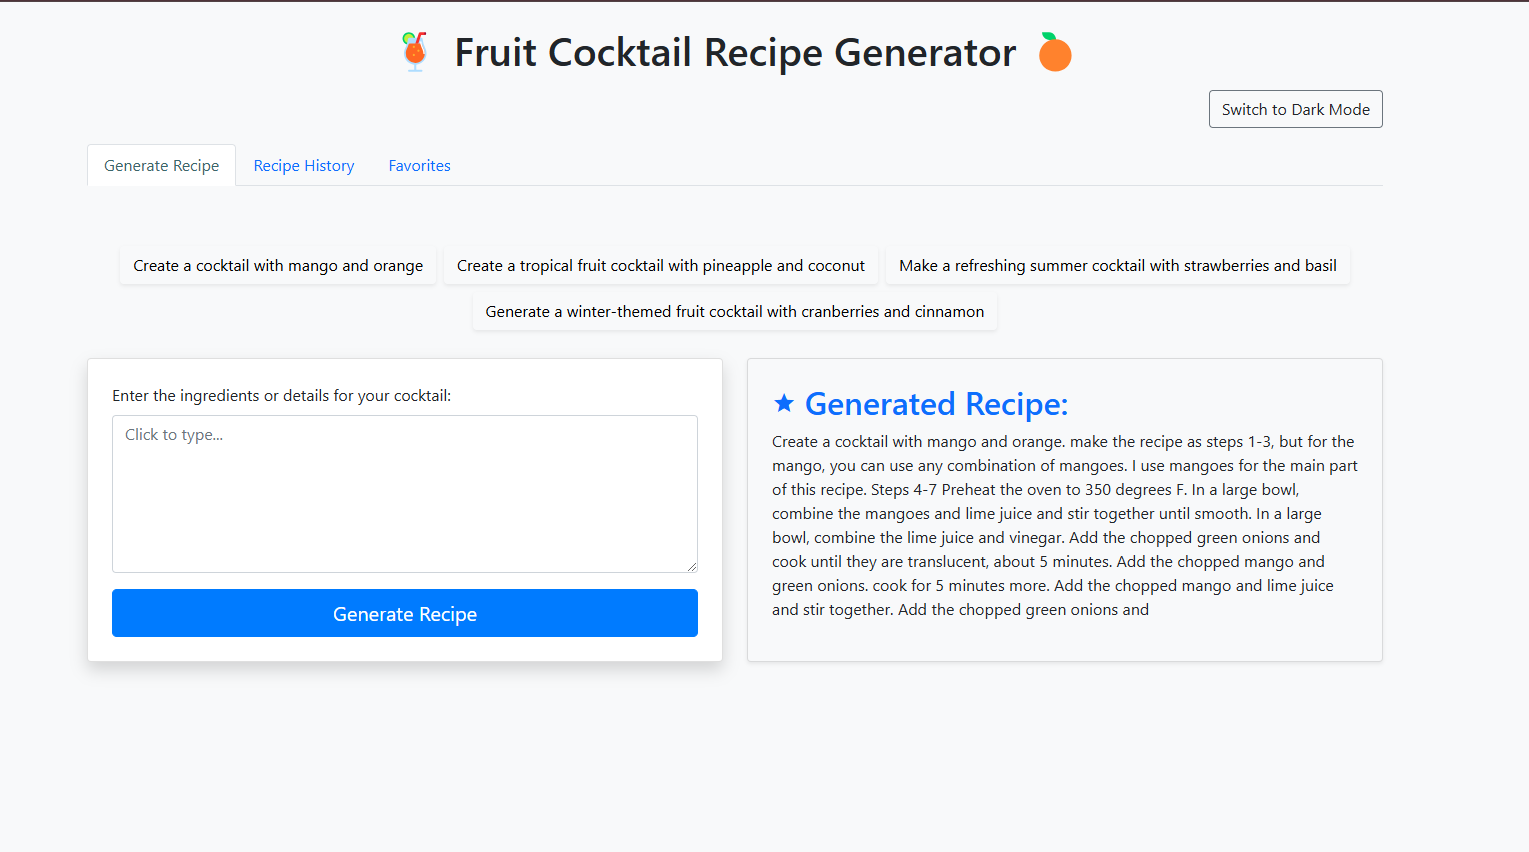
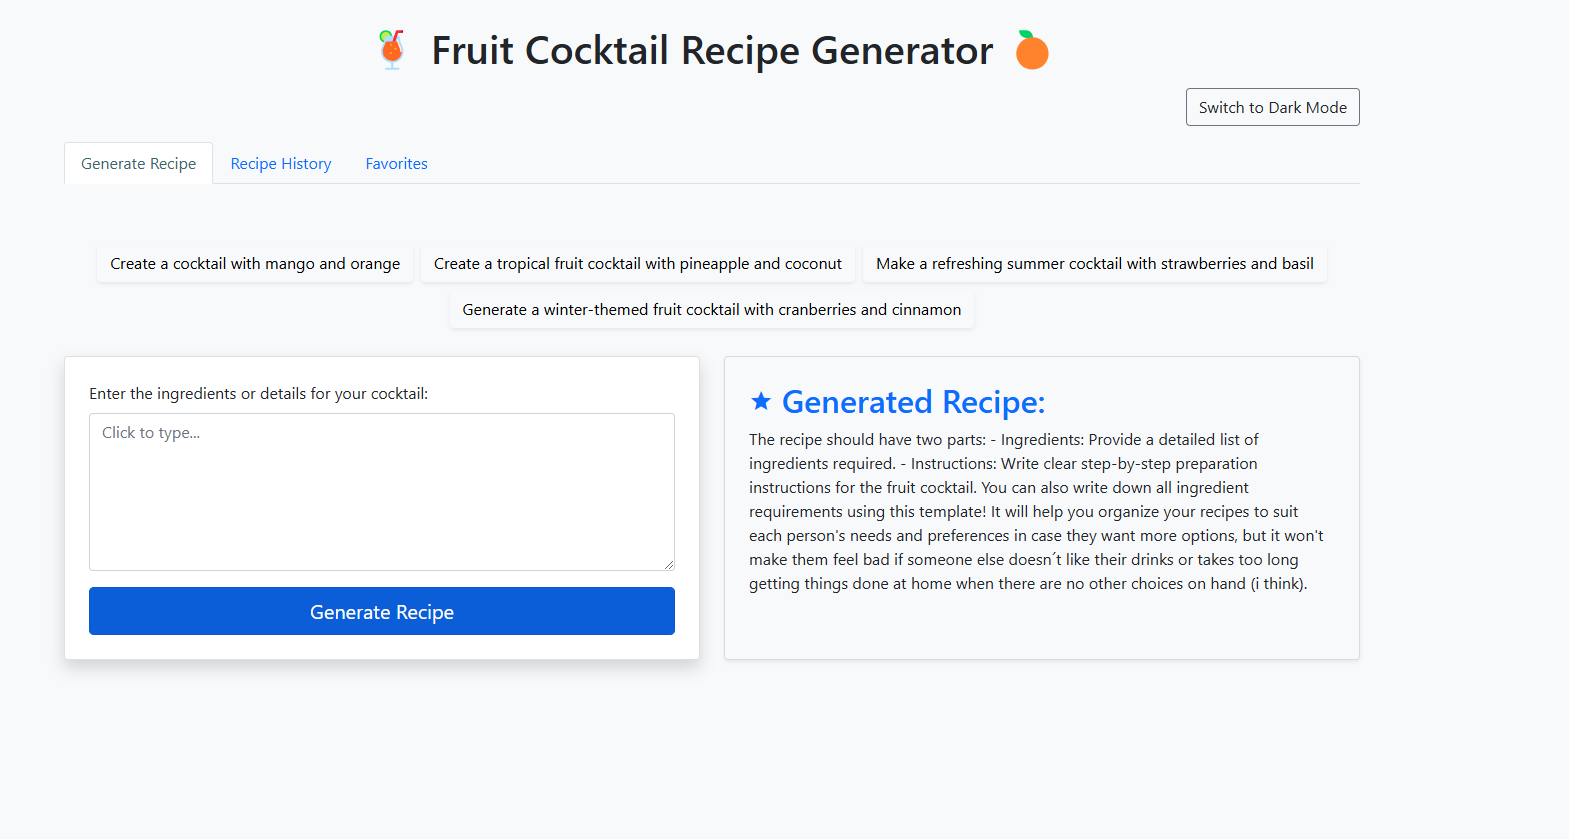
webapp update

diff --git a/webapp/templates/components/recipe_history.html b/webapp/templates/components/recipe_history.html
@@ -17,7 +17,8 @@
                                 <span class="material-icons text-danger action-icon" onclick="deleteRecipe({{ loop.index }});">delete</span>
                             </div>
                         </div>
-                        <p class="card-text">{{ recipe }}</p>
+                        <p class="card-text"><strong>Prompt:</strong> {{ recipe['prompt'] }}</p>
+                        <p class="card-text"><strong>Recipe:</strong> {{ recipe['recipe'] }}</p>
                     </div>
                 </div>
             </div>

diff --git a/webapp/webapp.py b/webapp/webapp.py
@@ -1,15 +1,18 @@
-# webapp.py
+# app/webapp.py
 
 from flask import Flask, render_template, request, redirect, url_for
-from model import load_model_and_tokenizer
-from generator import generate_recipe
+from utils.model import load_model_and_tokenizer
+from utils.generator import generate_recipe
 
 # Initialize Flask app
 app = Flask(__name__)
 
 # Load the fine-tuned model and tokenizer
-model_path = "/models/fine_tuned_gpt2"
+model_path = "model/fine_tuned_gpt2"
 model, tokenizer = load_model_and_tokenizer(model_path)
+
+# In-memory storage for recipe history
+recipe_history = []
 
 
 # Define a route for the homepage
@@ -22,8 +25,14 @@ def index():
         # Generate the recipe using the fine-tuned model
         generated_recipe = generate_recipe(prompt, model, tokenizer)
 
-    # Render the index page, passing the generated recipe if it exists
-    return render_template('index.html', generated_recipe=generated_recipe)
+        # Store the generated recipe in history
+        recipe_history.append({
+            'prompt': prompt,
+            'recipe': generated_recipe
+        })
+
+    # Render the index page, passing the generated recipe and recipe history
+    return render_template('index.html', generated_recipe=generated_recipe, recipe_history=recipe_history)
 
 
 # Function for setting example prompt via a URL route

diff --git a/webapp/utils/generator.py b/webapp/utils/generator.py
@@ -1,14 +1,21 @@
-# generator.py
+# utils/generator.py
 
 import torch
 
 def generate_recipe(prompt, model, tokenizer, max_length=250):
     """
     Generate a fruit cocktail recipe using the provided prompt.
+    Args:
+        prompt (str): User input to generate the recipe.
+        model: Pre-trained or fine-tuned model to generate text.
+        tokenizer: Tokenizer associated with the model.
+        max_length (int): The maximum length for the generated output.
+    Returns:
+        str: Generated recipe text.
     """
     # Construct the structured prompt
     structured_prompt = (
-        f"Create a detailed fruit cocktail recipe using {prompt}. The recipe should have two parts:\n"
+        f" The recipe should have two parts:\n"
         "- Ingredients: Provide a detailed list of ingredients required.\n"
         "- Instructions: Write clear step-by-step preparation instructions for the fruit cocktail."
     )

diff --git a/webapp/utils/model.py b/webapp/utils/model.py
@@ -1,10 +1,15 @@
-# model.py
+# utils/model.py
 
 from transformers import GPT2LMHeadModel, GPT2Tokenizer
 
-def load_model_and_tokenizer(model_path="/models/fine_tuned_gpt2"):
+def load_model_and_tokenizer(model_path="../models/fine_tuned_gpt2"):
     """
     Load the fine-tuned GPT-2 model and tokenizer.
+    Args:
+        model_path (str): Path to the fine-tuned model directory.
+    Returns:
+        model: Loaded GPT-2 model.
+        tokenizer: Loaded GPT-2 tokenizer.
     """
     model = GPT2LMHeadModel.from_pretrained(model_path)
     tokenizer = GPT2Tokenizer.from_pretrained(model_path)
